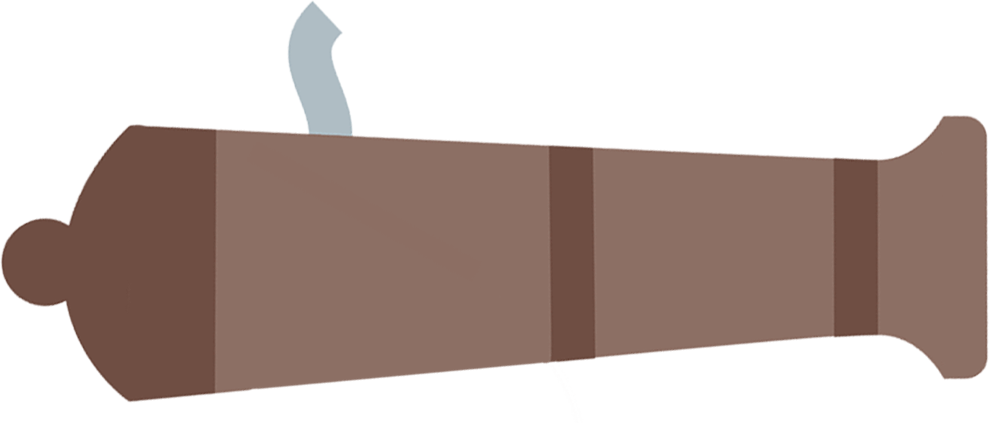
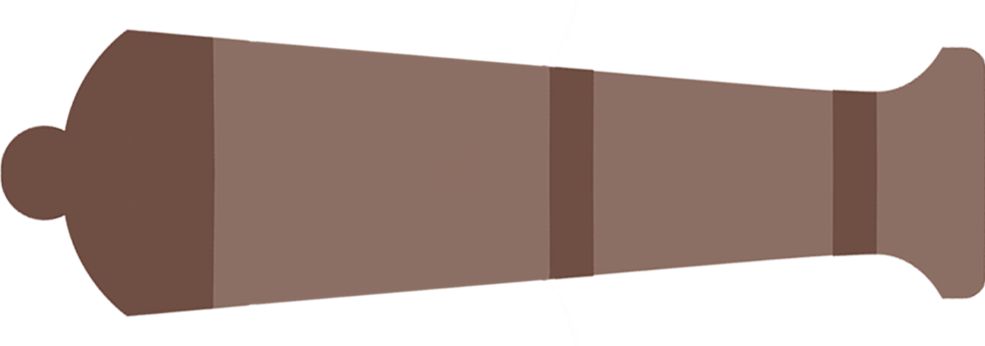
Tried to add a shooting cannon, this has a lot of bugs

Changed region(s): [[0.0, 0.0, 1.0, 0.9538]]

diff --git a/core/src/states/playStates/SinglePlayerState.java b/core/src/states/playStates/SinglePlayerState.java
@@ -6,6 +6,9 @@ import com.badlogic.gdx.graphics.g2d.BitmapFont;
 import com.badlogic.gdx.graphics.g2d.Sprite;
 import com.badlogic.gdx.graphics.g2d.SpriteBatch;
 import com.badlogic.gdx.math.Vector3;
+import com.badlogic.gdx.scenes.scene2d.ui.Dialog;
+import com.badlogic.gdx.scenes.scene2d.ui.Skin;
+import com.badlogic.gdx.scenes.scene2d.ui.Window;
 import com.castlecrush.game.CastleCrush;
 
 import entities.Cannon;
@@ -49,12 +52,12 @@ public class SinglePlayerState extends State{
         font = new BitmapFont();
         cannon = new Cannon(new Vector3(width / 10, width / 10, 0), width / 10, width / 20,
                 0, 0, new Sprite(new Texture("cannon.png")),
-                new Sprite(new Texture("wheel.png")), null);
+                new Sprite(new Texture("wheel.png")));
+
         projectile = new Projectile(new Vector3(cannon.getPosition().x + cannon.getWidth() / 2,
                 cannon.getPosition().y + cannon.getHeight() / 4, 0),
                 cannon.getWidth() / 10,cannon.getWidth() / 10, new Vector3(0,0,0),
                 new Sprite(new Texture("ball_cannon.png")));
-        cannon.setProjectile(projectile);
 
         makeMovingBackground();
 
@@ -84,7 +87,7 @@ public class SinglePlayerState extends State{
             }
         }
         if (!angleActive && !powerActive) {
-            cannon.fire();
+            projectile.fire(cannon.getAngle(), cannon.getPower());
             shotsFired = true;
         }
     }
@@ -101,8 +104,8 @@ public class SinglePlayerState extends State{
         }
 
         //Make the angle and power increment between respectively 0-90 and 0-100
-        float angleSpeed = (float)0.2;
-        float powerSpeed = (float)0.2;
+        float angleSpeed = (float)0.5;
+        float powerSpeed = (float)0.5;
         if (angleActive) {
             if (cannon.getAngle() >= 90) {
                 angleUp = false;
@@ -127,6 +130,7 @@ public class SinglePlayerState extends State{
             }
         }
         cannon.update(dt);
+        projectile.update(dt);
     }
 
     @Override
@@ -138,10 +142,6 @@ public class SinglePlayerState extends State{
 
         if (shotsFired) {
             sb.draw(projectile.getSprite(), projectile.getPosition().x, projectile.getPosition().y,
-                    projectile.getWidth(), projectile.getHeight());
-        } else {
-            sb.draw(projectile.getSprite(), round(cannon.getPosition().x +(cannon.getWidth() - projectile.getWidth()) * cos(cannon.getAngle() * PI / 180)),
-                    round(cannon.getPosition().y + cannon.getHeight() / 4 + (cannon.getWidth() * 7 / 10 - projectile.getWidth()) * sin(cannon.getAngle() * PI / 180)),
                     projectile.getWidth(), projectile.getHeight());
         }
 

diff --git a/core/src/entities/Cannon.java b/core/src/entities/Cannon.java
@@ -22,10 +22,8 @@ public class Cannon implements Drawable{
     Sprite cannon;
     Sprite wheel;
 
-    Projectile projectile;
-
     public Cannon(Vector3 position, int width, int height, float angle, float power,
-                  Sprite cannon, Sprite wheel, Projectile projectile) {
+                  Sprite cannon, Sprite wheel) {
         this.position = position;
         this.width = width;
         this.height = height;
@@ -33,7 +31,6 @@ public class Cannon implements Drawable{
         this.power = power;
         this.cannon = cannon;
         this.wheel = wheel;
-        this.projectile = projectile;
     }
 
     @Override
@@ -102,27 +99,10 @@ public class Cannon implements Drawable{
         this.wheel = wheel;
     }
 
-    public Projectile getProjectile() {
-        return projectile;
-    }
-
-    public void setProjectile(Projectile projectile) {
-        this.projectile = projectile;
-    }
-
-    //Fires the shot, with a given angle and power
-    public void fire() {
-        projectile.setVelocity(new Vector3((float)Math.cos(angle*Math.PI/180) * power, (float)Math.sin(angle*Math.PI/180) * power, (float)0));
-    }
-
     //Updates the game with the interval dt
     public void update(float dt) {
-        projectile.velocity.scl(dt);
-        projectile.position.add(projectile.velocity.x, projectile.velocity.y, 0);
-        projectile.velocity.scl(1/dt);
-        cannon.setOrigin(cannon.getWidth() / 2, cannon.getHeight() / 2);
+        //cannon.setOrigin(cannon.getWidth() / 2, cannon.getHeight() / 2);
         cannon.setRotation(getAngle());
-
     }
 
 }

diff --git a/core/src/entities/Projectile.java b/core/src/entities/Projectile.java
@@ -74,4 +74,15 @@ public class Projectile implements Drawable {
     public void setSprite(Sprite sprite) {
         this.sprite = sprite;
     }
+
+    //Fires the shot, with a given angle and power
+    public void fire(float angle, float power) {
+        setVelocity(new Vector3((float)Math.cos(angle*Math.PI/180) * power, (float)Math.sin(angle*Math.PI/180) * power, (float)0));
+    }
+
+    public void update(float dt) {
+        velocity.scl(dt);
+        position.add(velocity.x, velocity.y, 0);
+        velocity.scl(1/dt);
+    }
 }

diff --git a/core/src/states/menuStates/StartMenuScreen.java b/core/src/states/menuStates/StartMenuScreen.java
@@ -29,7 +29,6 @@ public class StartMenuScreen extends states.State {
 
     public static long startTime;
 
-
     public StartMenuScreen(GameStateManager gsm) {
         super(gsm);
         logo = new Texture("logo.png");
@@ -167,6 +166,7 @@ public class StartMenuScreen extends states.State {
     }
 
     public long getStartTime(){
+
         return this.startTime;
     }
 

diff --git a/core/src/states/State.java b/core/src/states/State.java
@@ -25,6 +25,4 @@ public abstract class State {
     public abstract void render(SpriteBatch sb);
     public abstract void dispose();
 
-
-
 }
